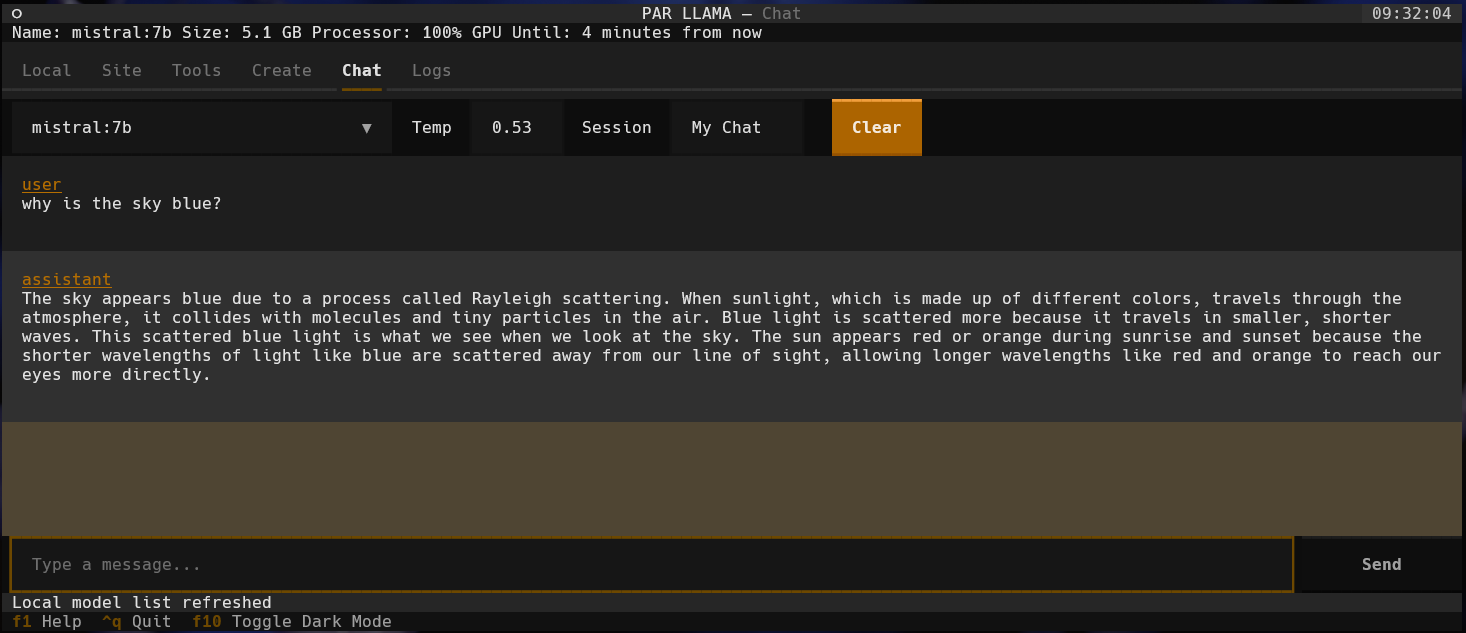
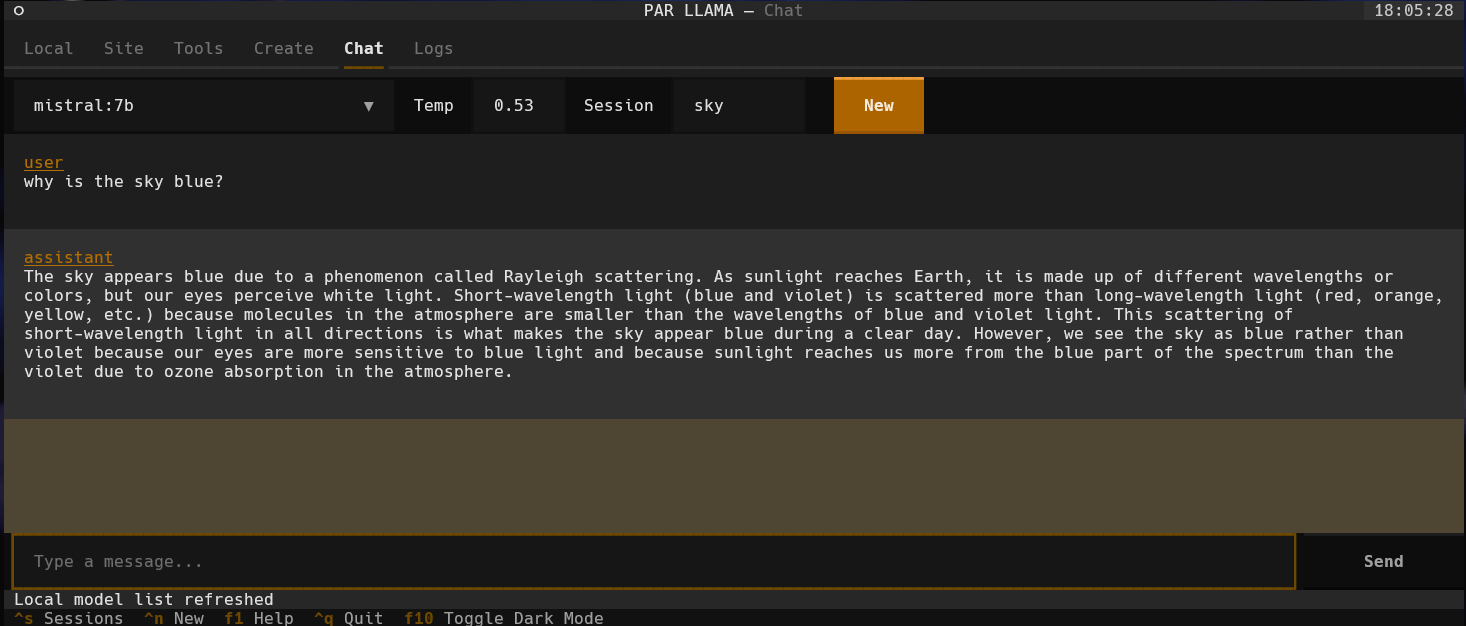
updated chat view screen shot updated roadmap in readme bump version

diff --git a/parllama/widgets/session_list.py b/parllama/widgets/session_list.py
@@ -53,7 +53,6 @@ class SessionList(VerticalScroll, can_focus=False, can_focus_children=True):
     def on_show(self) -> None:
         """Initialise the view."""
         if not chat_manager.current_session:
-            self.notify("no session")
             return
         for item in self.list_view.query(SessionListItem):
             if item.session.session_id == chat_manager.current_session.session_id:

diff --git a/parllama/__init__.py b/parllama/__init__.py
@@ -6,7 +6,7 @@ __copyright__ = "Copyright 2024, Paul Robello"
 __credits__ = ["Paul Robello"]
 __maintainer__ = "Paul Robello"
 __email__ = "probello@gmail.com"
-__version__ = "0.3.0"
+__version__ = "0.3.1"
 __licence__ = "MIT"
 __application_title__ = "PAR LLAMA"
 __application_binary__ = "parllama"

diff --git a/README.md b/README.md
@@ -255,6 +255,7 @@ if anything remains to be fixed before the commit is allowed.
 **Where we're going**
 * Chat with multiple models at same time to compare outputs
 * LLM tool use
+* Chat using embeddings for local documents
 
 
 ## What's new
